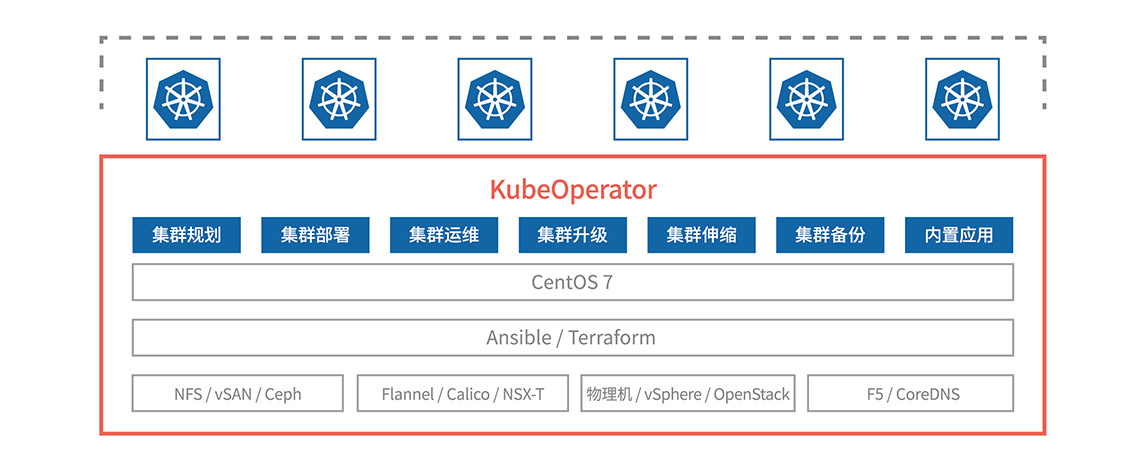
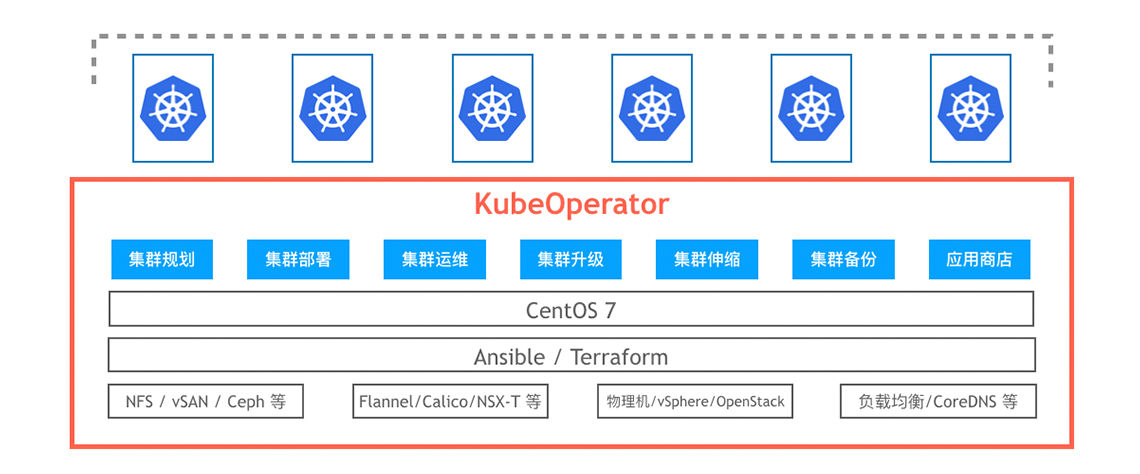
[Update] 修改功能列表

Changed region(s): [[0.0614, 0.0591, 0.9518, 0.9451]]

diff --git a/index.html b/index.html
@@ -393,7 +393,7 @@
 					<table class="subscription-table">
 						<tbody>
 							<tr>
-								<td class="table-title-1" rowspan="13">集群 Day 0 规划</td>
+								<td class="table-title-1" rowspan="14">集群 Day 0 规划</td>
 								<td class="table-title-2" rowspan="2">集群模式</td>
 								<td>1 个 Master 节点 n 个 Worker 节点模式：适合开发测试用途</td>
 							</tr>
@@ -402,7 +402,7 @@
 							</tr>
 							<tr>
 								<td class="table-title-2" rowspan="3">计算方案</td>
-								<td>独立主机：支持自行准备的虚机和物理机</td>
+								<td>独立主机：支持自行准备的虚机、公有云主机和物理机</td>
 							</tr>
 							<tr>
 								<td class="td-bg-color">vSphere 平台：支持自动创建主机（使用 Terraform）</td>
@@ -412,7 +412,7 @@
 							</tr>
 							<tr>
 								<td class="table-title-2" rowspan="3">存储方案</td>
-								<td class="td-bg-color">独立主机：支持 NFS / Ceph RBD (通过 Rook) / NetApp （通过Trident)</td>
+								<td class="td-bg-color">独立主机：支持 NFS / Ceph RBD / Local Volume</td>
 							</tr>
 							<tr>
 								<td>vSphere 平台：支持 vSphere Datastore （vSAN 及 vSphere 兼容的集中存储）</td>
@@ -434,43 +434,57 @@
 								<td class="td-bg-color">支持 CoreDNS</td>
 							</tr>
 							<tr>
+								<td class="table-title-2">GPU 方案</td>
+								<td>支持 NVIDIA GPU</td>
+							</tr>
+							<tr>
 								<td class="table-title-2">操作系统</td>
-								<td>支持 CentOS 7.4 / 7.5 / 7.6 / 7.7</td>
+								<td class="td-bg-color">支持 CentOS 7.4 / 7.5 / 7.6 / 7.7</td>
 							</tr>
 							<tr>
 								<td class="table-title-1" rowspan="3">集群 Day 1 部署</td>
 								<td class="table-title-2" rowspan="3">部署</td>
-								<td class="td-bg-color">提供离线环境下的完整安装包</td>
+								<td>提供离线环境下的完整安装包</td>
 							</tr>
 							<tr>
-								<td>支持可视化方式展示部署过程</td>
+								<td class="td-bg-color">支持可视化方式展示部署过程</td>
 							</tr>
 							<tr>
-								<td class="td-bg-color">支持一键自动化部署（使用 Ansible）</td>
+								<td>支持一键自动化部署（使用 Ansible）</td>
 							</tr>
 							<tr>
-								<td class="table-title-1" rowspan="11">集群 Day 2 运营</td>
-								<td class="table-title-2" rowspan="4">管理</td>
-								<td>内置 K8s 官方的 Dashboard 管理应用</td>
+								<td class="table-title-1" rowspan="15">集群 Day 2 运营</td>
+								<td class="table-title-2" rowspan="6">管理</td>
+								<td class="td-bg-color">支持用户权限管理，并对接 LDAP/AD</td>
 							</tr>
 							<tr>
-								<td class="td-bg-color">内置 Weave Scope 管理应用</td>
+								<td>对外开放 REST API</td>
 							</tr>
 							<tr>
-								<td>提供 Web Kubectl 界面</td>
+								<td class="td-bg-color">内置 K8s Dashboard 管理应用</td>
+							</tr>
+
+							<tr>
+								<td>内置 Weave Scope 管理应用</td>
 							</tr>
 							<tr>
-								<td class="td-bg-color">内置 Helm</td>
+								<td class="td-bg-color">提供 Web Kubectl 界面</td>
 							</tr>
 							<tr>
-								<td class="table-title-2" rowspan="3">可观察性</td>
-								<td>内置 Promethus，支持对集群、节点、Pod、Container的全方位监控和告警</td>
+								<td>内置 Helm</td>
 							</tr>
 							<tr>
-								<td class="td-bg-color">内置 Loki 日志方案</td>
+								<td class="table-title-2" rowspan="4">可观察性</td>
+								<td class="td-bg-color">内置 Promethus，支持对集群、节点、Pod、Container的全方位监控和告警</td>
 							</tr>
 							<tr>
-								<td>内置 Grafana 作为监控和日志展示</td>
+								<td>内置 Loki 日志方案</td>
+							</tr>
+							<tr>
+								<td class="td-bg-color">内置 Grafana 作为监控和日志展示</td>
+							</tr>
+							<tr>
+								<td>支持消息中心，通过钉钉、微信通知各种集群异常事件</td>
 							</tr>
 							<tr>
 								<td class="table-title-2">升级</td>
@@ -485,8 +499,12 @@
 								<td class="td-bg-color">支持 etcd 定期备份</td>
 							</tr>
 							<tr>
+								<td class="table-title-2">合规</td>
+								<td>支持集群合规检查并可视化展示结果</td>
+							</tr>
+							<tr>
 								<td class="table-title-2">应用商店</td>
-								<td>集成 KubeApps 应用商店</td>
+								<td class="td-bg-color">集成 KubeApps Plus 应用商店，快速部署 CI/CD、AI 深度学习等应用</td>
 							</tr>
 						</tbody>
 					</table>
